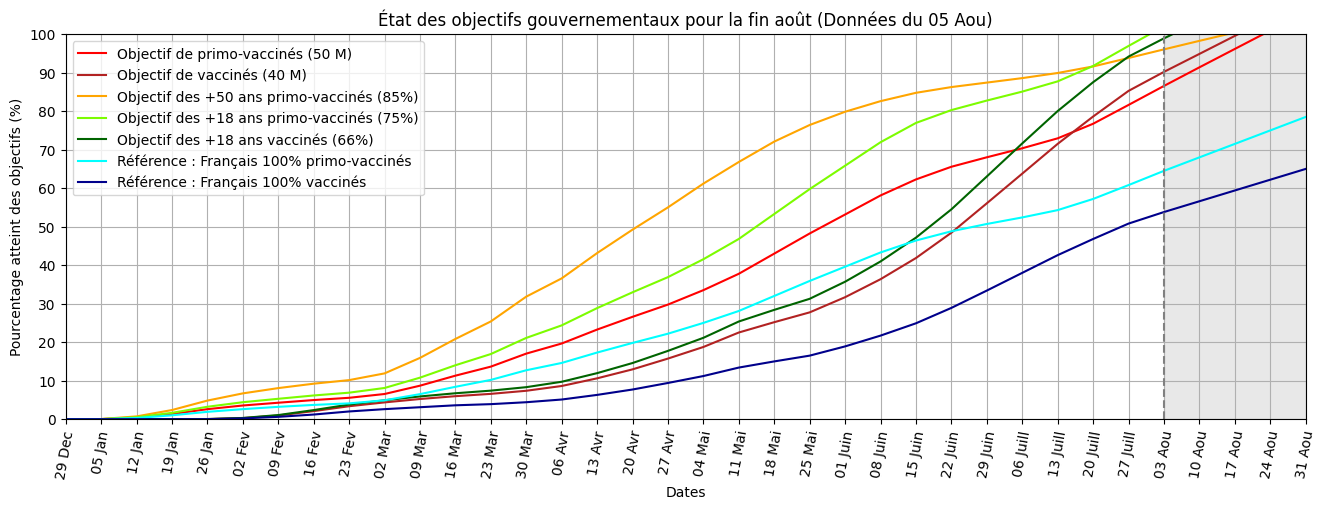
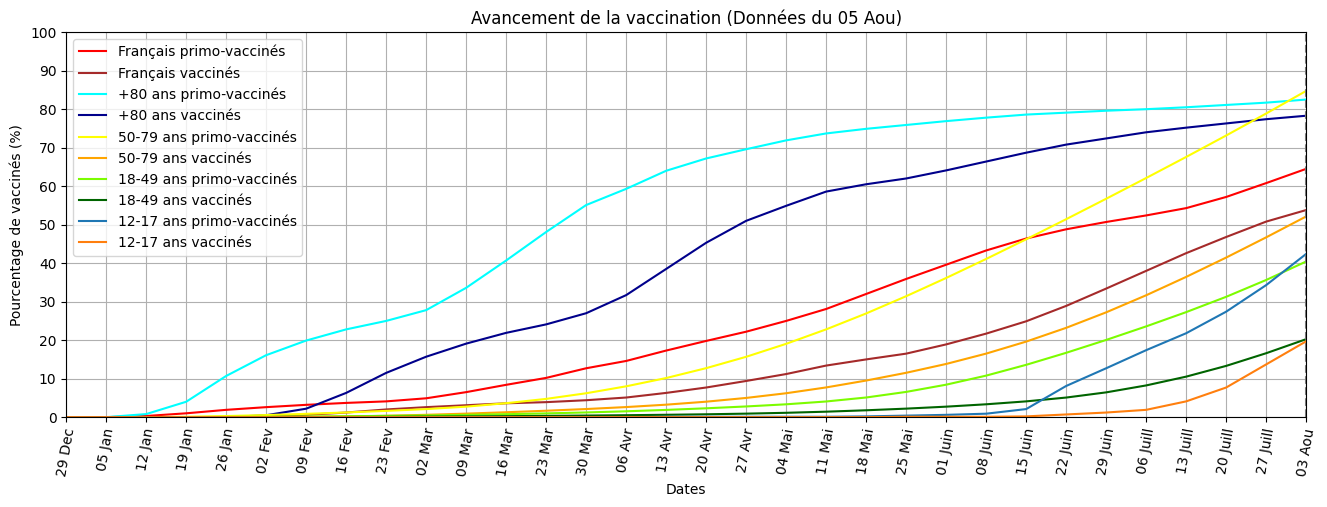
Ajouts des courbes de vaccination

Changed region(s): [[0.0, 0.0, 0.9894, 0.9763]]

diff --git a/main.py b/main.py
@@ -8,21 +8,14 @@ nom_fichier = "vacsi-a-fra-2021-08-05-19h05.csv"                                
 
 #Paramètres du graphique
 limite_date_debut = "2020-12-29"                                                #Indique la première date des données (0 pour conserver la liste)
-limite_date_fin = 0                                                             #Exclure les données à partir du 1er Août (0 pour conserver la liste)
+limite_date_fin = 0                                                  #Exclure les données à partir du 1er Août (0 pour conserver la liste)
 limite_nombre_jour = 0                                                          #Indique le nombre de dates à inscrire sur l'axe des abscisses (0 ou 1 conserve la liste)
 limite_ecart_jour = 7                                                           #Espace de n jours les dates
 nb_jour_prediction = 7                                                          #Fait des prévisions sur les jours suivants à partir des n derniers jours
 
-#Liste des objectifs
-obj_1_dose = 50000000                                                           #50 000 000 primo-vaccinés
-obj_tot_dose = 40000000                                                         #40 000 000 vaccinés
-obj_50_ans_1_dose = 0.85                                                        #85% des +50 ans primo-vaccinés
-obj_18_ans_1_dose = 0.75                                                        #75% des +18 ans primo-vaccinés
-obj_18_ans_tot_dose = 0.66                                                      #66% des +18 ans complétement vaccinés
-
 #Données sur la population (Insee, 2021) (https://www.insee.fr/fr/outil-interactif/5367857/details/20_DEM/21_POP/21C_Figure3#)
-pop_50_ans = 27824662                                                           #27 824 662 Français ont plus de 50 ans
-pop_18_ans = 53761464                                                           #53 761 464 Français ont plus de 18 ans
+pop_50_79_ans = 22772098                                                        #22 772 098 Français ont entre 50 et 79 ans
+pop_18_49_ans = 26026248                                                        #26 026 248 Français ont entre 18 et 49 ans
 
 
 
@@ -59,6 +52,7 @@ def formatDate(date):
 #Sert à créer une liste de dates jusqu'à une date limite
 def creationDate(date):
     nouvelles_dates = []
+    if limite_date_fin == 0: return []
     while date != limite_date_fin:
         date = date[0:8] + str(int(date[8:])+1)
         if len(date[8:]) == 1: date = date[0:8] + "0" + date[-1] 
@@ -133,16 +127,16 @@ for i in range(len(table)):
 liste_dates = []                                                                #Stocke la liste des dates en abscisse
 
 proportion_primo_vaccines = []                                                  #Stocke la proportion de primo-vaccinés
-proportion_primo_injections_12_17_ans = []                                      #Stocke la liste du nombre de primo-injections des 12-17 ans
-proportion_primo_injections_18_49_ans = []                                      #Stocke la liste du nombre de primo-injections des 18-49 ans
-proportion_primo_injections_50_79_ans = []                                      #Stocke la liste du nombre de primo-injections des 50-79 ans
-proportion_primo_injections_80_ans = []                                         #Stocke la liste du nombre de primo-injections des +80 ans
+proportion_primo_injections_12_17_ans = []                                      #Stocke la liste de la proportion de primo-vaccinés des 12-17 ans
+proportion_primo_injections_18_49_ans = []                                      #Stocke la liste de la proportion de primo-vaccinés des 18-49 ans
+proportion_primo_injections_50_79_ans = []                                      #Stocke la liste de la proportion de primo-vaccinés des 50-79 ans
+proportion_primo_injections_80_ans = []                                         #Stocke la liste de la proportion de primo-vaccinés des +80 ans
 
 proportion_vaccines = []                                                        #Stocke la proportion de complètement vaccinés
-proportion_injections_completes_12_17_ans = []                                  #Stocke la liste du nombre de primo-injections des 12-17 ans
-proportion_injections_completes_18_49_ans = []                                  #Stocke la liste du nombre de primo-injections des 18-49 ans
-proportion_injections_completes_50_79_ans = []                                  #Stocke la liste du nombre de primo-injections des 50-79 ans
-proportion_injections_completes_80_ans = []                                     #Stocke la liste du nombre de primo-injections des +80 ans
+proportion_injections_completes_12_17_ans = []                                  #Stocke la liste de la proportion de vaccinés des 12-17 ans
+proportion_injections_completes_18_49_ans = []                                  #Stocke la liste de la proportion de vaccinés des 18-49 ans
+proportion_injections_completes_50_79_ans = []                                  #Stocke la liste de la proportion de vaccinés des 50-79 ans
+proportion_injections_completes_80_ans = []                                     #Stocke la liste de la proportion de vaccinés des +80 ans
 
 #Variables de transition entre les différentes classes d'âges
 cumul_proportion_primo_injections_18_49_ans = 0
@@ -168,30 +162,31 @@ for donnees in table:
     #Dans le cas où la ligne concerne les injections de personnes entre 12 et 17 ans...
     elif age == 17:
         proportion_primo_injections_12_17_ans.append(taux_primo_vaccines)
+        proportion_injections_completes_12_17_ans.append(taux_vaccines)
 
     #Dans le cas où la ligne concerne les injections de personnes entre 18 et 49 ans...
     elif 18 <= age <= 49:
         cumul_proportion_primo_injections_18_49_ans += primo_injections
         cumul_proportion_injections_completes_18_49_ans += injections_completes
 
-    #Dans le cas où la ligne concerne les injections de personnes entre 50 et 79 ans...
+        if age == 49:
+            proportion_primo_injections_18_49_ans.append(cumul_proportion_primo_injections_18_49_ans/pop_18_49_ans)
+            proportion_injections_completes_18_49_ans.append(cumul_proportion_injections_completes_18_49_ans/pop_18_49_ans)
+
+    #Dans le cas où la ligne concerne les injections de personnes entre 50 et 74 ans...
     elif 50 <= age <= 79:
         cumul_proportion_primo_injections_50_79_ans += primo_injections
-        cumul_proportion_primo_injections_18_49_ans += primo_injections
-        cumul_proportion_injections_completes_18_49_ans += injections_completes
+        cumul_proportion_injections_completes_50_79_ans += injections_completes
+    
+        if age == 79:
+            proportion_primo_injections_50_79_ans.append(cumul_proportion_primo_injections_50_79_ans/pop_50_79_ans)
+            proportion_injections_completes_50_79_ans.append(cumul_proportion_injections_completes_50_79_ans/pop_50_79_ans)
 
     #Dans le cas où la ligne concerne les injections de personnes de plus de 80 ans...
     elif age == 80:
-        cumul_proportion_primo_injections_50_79_ans += primo_injections
-        proportion_primo_injections_50_79_ans.append(cumul_proportion_primo_injections_50_79_ans/pop_50_ans/obj_50_ans_1_dose*100)
-        cumul_proportion_primo_injections_50_79_ans = 0
-        
-        cumul_proportion_primo_injections_18_49_ans += primo_injections
-        cumul_proportion_injections_completes_18_49_ans += injections_completes
-        proportion_primo_injections_18_49_ans.append(cumul_proportion_primo_injections_18_49_ans/pop_18_ans/obj_18_ans_1_dose*100)
-        proportion_injections_completes_18_49_ans.append(cumul_proportion_injections_completes_18_49_ans/pop_18_ans/obj_18_ans_tot_dose*100)
-        cumul_proportion_primo_injections_18_49_ans = 0
-        cumul_proportion_injections_completes_18_49_ans = 0
+        proportion_primo_injections_80_ans.append(taux_primo_vaccines)
+        proportion_injections_completes_80_ans.append(taux_vaccines)
+
 
 position_date_limite = len(liste_dates)-1                                       #Sauvegarde de la position du dernier jour dont on a les données
 
@@ -207,12 +202,16 @@ plt.figure(figsize = (16, 5))                                                   
 plt.tick_params(axis = 'x', rotation = 80)                                      #Tourne les dates à 80° afin qu'elles restent visibles
 
 #Trace les courbe
-plt.plot(liste_dates_reduite, ecartDate(reduction(projectionObjectif(proportion_primo_vaccines))), "cyan", label = "Français primo-vaccinés")
-plt.plot(liste_dates_reduite, ecartDate(reduction(projectionObjectif(proportion_vaccines))), "darkblue", label = "Français vaccinés")
+plt.plot(liste_dates_reduite, ecartDate(reduction(projectionObjectif(proportion_primo_vaccines))), "red", label = "Français primo-vaccinés")
+plt.plot(liste_dates_reduite, ecartDate(reduction(projectionObjectif(proportion_vaccines))), "brown", label = "Français vaccinés")
+plt.plot(liste_dates_reduite, ecartDate(reduction(projectionObjectif(proportion_primo_injections_80_ans))), "cyan", label = "+80 ans primo-vaccinés")
+plt.plot(liste_dates_reduite, ecartDate(reduction(projectionObjectif(proportion_injections_completes_80_ans))), "darkblue", label = "+80 ans vaccinés")
 plt.plot(liste_dates_reduite, ecartDate(reduction(projectionObjectif(proportion_primo_injections_50_79_ans))), "yellow", label = "50-79 ans primo-vaccinés")
-plt.plot(liste_dates_reduite, ecartDate(reduction(projectionObjectif(proportion_primo_injections_50_79_ans))), "orange", label = "50-79 ans vaccinés")
+plt.plot(liste_dates_reduite, ecartDate(reduction(projectionObjectif(proportion_injections_completes_50_79_ans))), "orange", label = "50-79 ans vaccinés")
 plt.plot(liste_dates_reduite, ecartDate(reduction(projectionObjectif(proportion_primo_injections_18_49_ans))), "lawngreen", label = "18-49 ans primo-vaccinés")
 plt.plot(liste_dates_reduite, ecartDate(reduction(projectionObjectif(proportion_injections_completes_18_49_ans))), "darkgreen", label = "18-49 ans vaccinés")
+plt.plot(liste_dates_reduite, ecartDate(reduction(projectionObjectif(proportion_primo_injections_12_17_ans))), label = "12-17 ans primo-vaccinés")
+plt.plot(liste_dates_reduite, ecartDate(reduction(projectionObjectif(proportion_injections_completes_12_17_ans))), label = "12-17 ans vaccinés")
 
 #Trace une zone en gris clair délimitée par une ligne verticales en pointillé pour désigner les prédictions des courbes (si les données n'ont pas été raccourcis)
 if donnees_racourcies == False:
@@ -227,8 +226,8 @@ plt.legend()                                                                    
 plt.margins(0, 0)                                                               #Force la disparition des marges intérieures
 
 #Défini les titres du graphe et des axes x et y
-plt.title(f"État des objectifs gouvernementaux pour la fin août (Données du {formatDate(nom_fichier[12:22])})")
+plt.title(f"Avancement de la vaccination (Données du {formatDate(nom_fichier[12:22])})")
 plt.xlabel("Dates")
-plt.ylabel("Pourcentage atteint des objectifs (%)")
+plt.ylabel("Pourcentage de vaccinés (%)")
     
 plt.savefig(f"Tableau {date}.png", bbox_inches = 'tight')                       #Sauvegarde l'image avec la date des données et supprime et les marges exterieures
